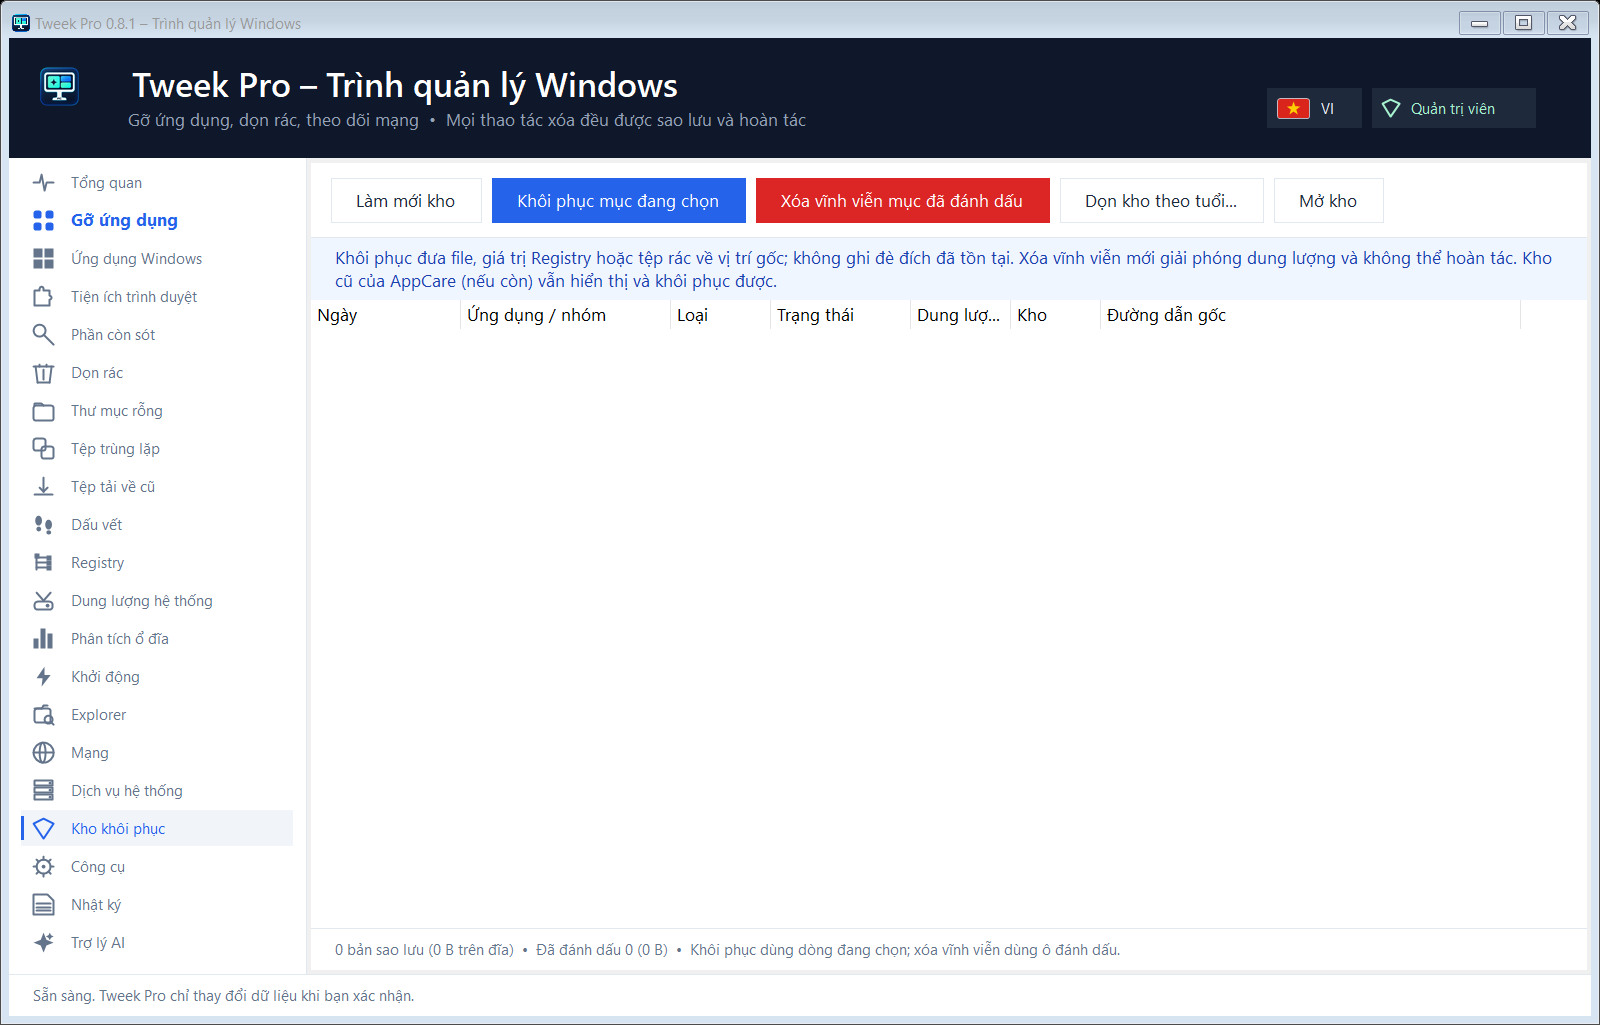
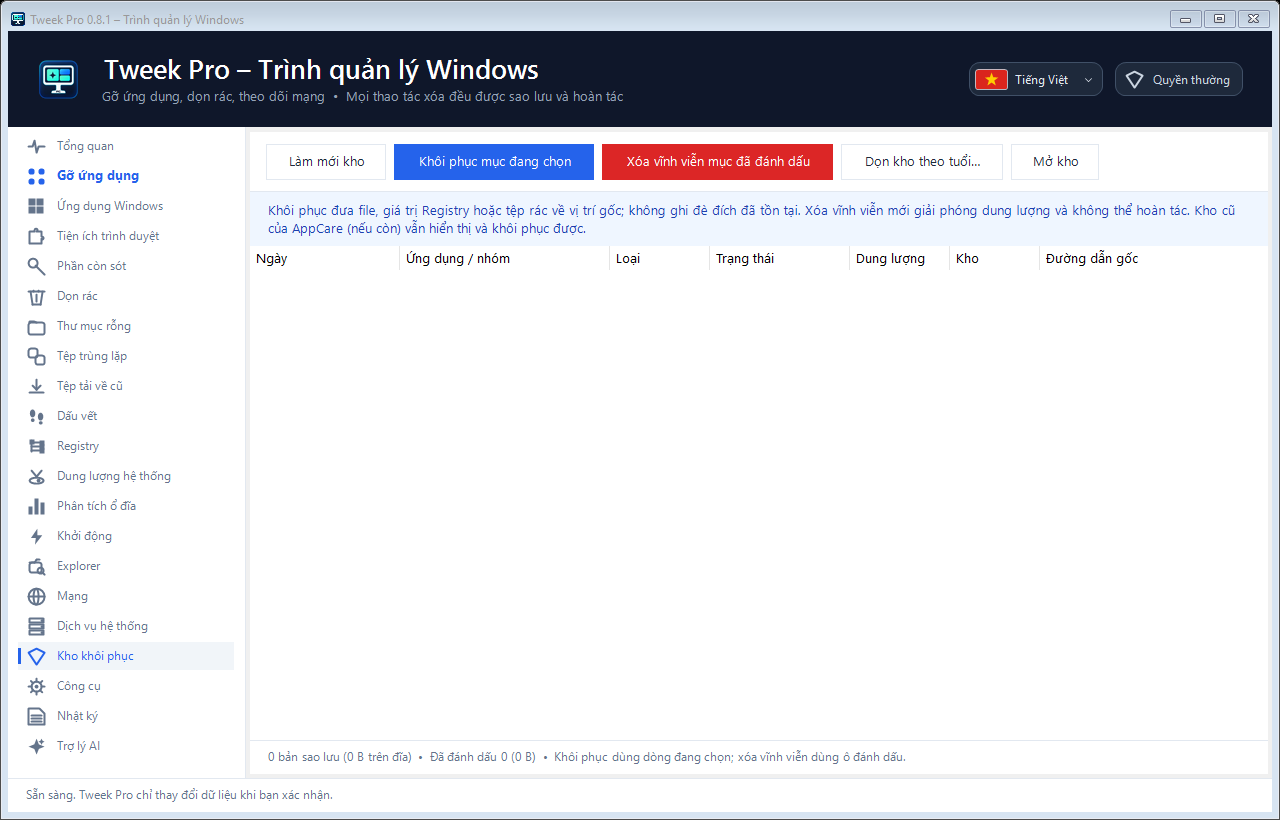
Refine language and privilege header controls and remove Hunter mode

diff --git a/App.cs b/App.cs
@@ -55,8 +55,6 @@ namespace TweekPro {
    Add(bar,"Gỡ cưỡng bức…",async()=>await ForceUninstall());
    Add(bar,"Xuất CSV",()=>{ExportApps();return Task.FromResult(0);});
    Add(bar,"Theo dõi cài đặt",async()=>await ToggleInstallWatch());watchInstallButton=actions[actions.Count-1];
-   Add(bar,"Hunter…",()=>{ShowHunter();return Task.FromResult(0);});
-   tips.SetToolTip(actions[actions.Count-1],Core.L.T("Thu cửa sổ và hiện kính ngắm đỏ.\r\nKéo kính lên icon hoặc cửa sổ để xem ứng dụng, rồi gỡ hoặc mở thư mục.\r\nChuột phải trên kính để thoát."));
    deepMode.Text=Core.L.T("Quét sâu sau khi gỡ");deepMode.Checked=settings.DeepScanAfterUninstall;deepMode.CheckedChanged+=(s,e)=>settings.DeepScanAfterUninstall=deepMode.Checked;deepMode.AutoSize=true;deepMode.Margin=new Padding(12,8,16,0);deepMode.ForeColor=Theme.Text;bar.Controls.Add(deepMode);
    pupOnly.Text=Core.L.T("Chỉ hiện mục cảnh báo");pupOnly.AutoSize=true;pupOnly.Margin=new Padding(0,8,16,0);pupOnly.ForeColor=Theme.Text;pupOnly.CheckedChanged+=(s,e)=>Filter();bar.Controls.Add(pupOnly);
    var searchHost=Theme.SearchField(search);search.TextChanged+=(s,e)=>Filter();
@@ -173,17 +171,20 @@ namespace TweekPro {
   void Log(string value){log.AppendText(DateTime.Now.ToString("HH:mm:ss")+"  "+value+"\r\n");status.Text=value;if(value.StartsWith("LỖI",StringComparison.OrdinalIgnoreCase)||value.StartsWith("ERROR",StringComparison.OrdinalIgnoreCase))Core.Log.Error(value);else Core.Log.Info(value);}
   /// <summary>Persists settings.json; failures are logged, never shown as blocking errors.</summary>
   void SaveSettings(){try{settings.Save(Core.Paths.SettingsFile);}catch(Exception e){Core.Log.Warn("Không lưu được settings.json: "+e.Message);}}
-  /// <summary>Adds the privilege badge and the compact language toggle to the right side of the header band.</summary>
+  /// <summary>Adds a language menu and a distinct privilege status to the header.</summary>
   void BuildHeaderActions(Panel header){
-   var right=new FlowLayoutPanel{Dock=DockStyle.Right,FlowDirection=FlowDirection.RightToLeft,WrapContents=false,Padding=new Padding(16,22,0,0),BackColor=Theme.Header};
-   bool elevated=Core.Elevation.IsElevated;
-   string privilege=Core.L.T(elevated?"Quản trị viên":"Quyền thường");
-   var badge=new Label{Text=privilege,AutoSize=false,Height=32,Width=TextRenderer.MeasureText(privilege,Theme.Small).Width+38,TextAlign=ContentAlignment.MiddleLeft,Padding=new Padding(28,0,8,0),Margin=new Padding(8,0,0,0),Font=Theme.Small,ForeColor=elevated?Color.FromArgb(167,243,208):Color.FromArgb(203,213,225),BackColor=Color.FromArgb(30,41,59),AccessibleName=Core.Elevation.BadgeText};
-   badge.Paint+=(s,e)=>{float scale=badge.DeviceDpi/96f;Branding.DrawTabGlyph(e.Graphics,"Kho khôi phục",new Rectangle((int)(8*scale),(badge.Height-(int)(14*scale))/2,(int)(14*scale),(int)(14*scale)),badge.ForeColor);};
-   right.Controls.Add(badge);
-   var language=Branding.LanguageButton(Core.L.English?"EN":"VI",Core.L.T(Core.L.English?"Chuyển sang tiếng Việt":"Switch to English"));language.Margin=new Padding(0);
-   language.Click+=async(s,e)=>await Guard(()=>{SwitchLanguage();return Task.FromResult(0);});
+   var right=new FlowLayoutPanel{Dock=DockStyle.Right,FlowDirection=FlowDirection.LeftToRight,WrapContents=false,Padding=new Padding(16,12,0,0),BackColor=Theme.Header};
+   var language=Branding.LanguageButton(Core.L.English?"EN":"VI",Core.L.T("Ngôn ngữ"));language.Margin=new Padding(0,0,10,0);
+   var menu=new ContextMenuStrip{Font=Theme.Body};
+   foreach(string code in new[]{Core.L.Vietnamese,Core.L.EnglishCode}){
+    string target=code;var item=new ToolStripMenuItem(Core.L.T(code==Core.L.Vietnamese?"Tiếng Việt":"English")){Checked=String.Equals(Core.L.Lang,code,StringComparison.OrdinalIgnoreCase)};
+    item.Click+=async(s,e)=>{if(!String.Equals(Core.L.Lang,target,StringComparison.OrdinalIgnoreCase))await Guard(()=>{SwitchLanguage();return Task.FromResult(0);});};menu.Items.Add(item);
+   }
+   language.ContextMenuStrip=menu;tips.SetToolTip(language,Core.L.T("Ngôn ngữ"));
+   language.Click+=(s,e)=>menu.Show(language,new Point(0,language.Height));
+   FormClosed+=(s,e)=>menu.Dispose();
    right.Controls.Add(language);
+   var badge=Branding.PrivilegeBadge(Core.Elevation.IsElevated);badge.Margin=new Padding(0);tips.SetToolTip(badge,Core.Elevation.BadgeText);right.Controls.Add(badge);
    header.Controls.Add(right);right.Width=right.PreferredSize.Width;
   }
   /// <summary>Toggles between Vietnamese and English, saves the preference and relaunches so every tab is rebuilt in the new language.</summary>
@@ -458,24 +459,7 @@ namespace TweekPro {
    try{Process.Start(Application.ExecutablePath);}catch(Exception ex){Log(ex.Message);return;}
    BeginInvoke((Action)Close);
   }
-  void ShowHunter(){
-   if(Environment.OSVersion.Platform!=PlatformID.Win32NT)throw new IOException(Core.L.T("Hunter chỉ chạy trên Windows."));
-   Hide();
-   bool back=false;
-   Action show=()=>{
-    if(back)return;back=true;
-    var area=Screen.FromPoint(Cursor.Position).WorkingArea;
-    if(Width>area.Width)Width=area.Width;if(Height>area.Height)Height=area.Height;
-    if(Left<area.Left||Top<area.Top||Right>area.Right||Bottom>area.Bottom)
-     Location=new Point(area.Left+Math.Max(0,(area.Width-Width)/2),area.Top+Math.Max(0,(area.Height-Height)/2));
-    Show();WindowState=FormWindowState.Normal;Activate();
-   };
-   HunterSession.Start(this,inventory,app=>{
-    show();
-    foreach(ListViewItem i in apps.Items){bool mine=i.Tag==app;i.Selected=mine;i.Checked=mine;if(mine)i.EnsureVisible();}
-    BeginInvoke((Action)(async()=>{await Guard(()=>Uninstall());}));
-   },show);
-  }
+
  }
  public static class Program {
   /// <summary>Migrates the AppCare data folder once, then points the rotating log at the Tweek Pro data directory.</summary>

diff --git a/Branding.cs b/Branding.cs
@@ -23,14 +23,33 @@ namespace TweekPro {
   static readonly Color LogoTop=Color.FromArgb(56,132,255);
   static readonly Color LogoBottom=Color.FromArgb(29,78,216);
 
-  /// <summary>Compact header button showing the current language as its flag; clicking it switches the UI language.</summary>
+  /// <summary>Rounded language selector with the current flag, language name and menu chevron.</summary>
   public static Button LanguageButton(string code,string tooltip){
-   var b=new Button{Size=new Size(76,32),FlatStyle=FlatStyle.Flat,Cursor=Cursors.Hand,BackColor=Color.FromArgb(30,41,59),ForeColor=Color.FromArgb(226,232,240),Text="",TabStop=true,UseVisualStyleBackColor=false};
-   b.FlatAppearance.BorderSize=0;b.FlatAppearance.MouseOverBackColor=Color.FromArgb(30,41,59);b.FlatAppearance.MouseDownBackColor=Color.FromArgb(51,65,85);
-   b.Paint+=(s,e)=>{float scale=b.DeviceDpi/96f;DrawLanguageGlyph(e.Graphics,new Rectangle(0,0,(int)(42*scale),b.Height),code,b.ForeColor);TextRenderer.DrawText(e.Graphics,code,Theme.Small,new Rectangle((int)(40*scale),0,b.Width-(int)(42*scale),b.Height),b.ForeColor,TextFormatFlags.Left|TextFormatFlags.VerticalCenter);};
-   new ToolTip().SetToolTip(b,tooltip);
-   b.AccessibleName=tooltip;
+   string name=Core.L.T(code=="EN"?"English":"Tiếng Việt");
+   var b=new Button{Size=new Size(TextRenderer.MeasureText(name,Theme.Small).Width+76,36),Font=Theme.Small,FlatStyle=FlatStyle.Flat,Cursor=Cursors.Hand,BackColor=Theme.Header,ForeColor=Color.FromArgb(226,232,240),Text="",TabStop=true,UseVisualStyleBackColor=false,AccessibleName=tooltip+": "+name};
+   b.FlatAppearance.BorderSize=0;b.FlatAppearance.MouseOverBackColor=Theme.Header;b.FlatAppearance.MouseDownBackColor=Theme.Header;
+   bool hover=false,pressed=false;
+   b.MouseEnter+=(s,e)=>{hover=true;b.Invalidate();};b.MouseLeave+=(s,e)=>{hover=false;pressed=false;b.Invalidate();};b.MouseDown+=(s,e)=>{pressed=true;b.Invalidate();};b.MouseUp+=(s,e)=>{pressed=false;b.Invalidate();};b.GotFocus+=(s,e)=>b.Invalidate();b.LostFocus+=(s,e)=>b.Invalidate();
+   b.Paint+=(s,e)=>{
+    float scale=b.DeviceDpi/96f;var g=e.Graphics;g.SmoothingMode=SmoothingMode.AntiAlias;
+    using(var shape=Rounded(new Rectangle(1,1,b.Width-3,b.Height-3),(int)(10*scale)))using(var fill=new SolidBrush(pressed?Color.FromArgb(51,65,85):hover?Color.FromArgb(40,55,76):Color.FromArgb(30,41,59)))using(var edge=new Pen(b.Focused?Color.FromArgb(96,165,250):Color.FromArgb(64,80,103))){g.FillPath(fill,shape);g.DrawPath(edge,shape);}
+    DrawLanguageGlyph(g,new Rectangle((int)(10*scale),0,(int)(26*scale),b.Height),code,b.ForeColor);
+    TextRenderer.DrawText(g,name,b.Font,new Rectangle((int)(44*scale),0,b.Width-(int)(66*scale),b.Height),b.ForeColor,TextFormatFlags.Left|TextFormatFlags.VerticalCenter|TextFormatFlags.NoPrefix);
+    int x=b.Width-(int)(16*scale),y=b.Height/2;using(var pen=new Pen(b.ForeColor,1.5f*scale)){g.DrawLines(pen,new[]{new PointF(x-3*scale,y-1*scale),new PointF(x,y+2*scale),new PointF(x+3*scale,y-1*scale)});}
+   };
    return b;
+  }
+  /// <summary>Rounded read-only privilege status, with a green shield when elevated.</summary>
+  public static Label PrivilegeBadge(bool elevated){
+   string text=Core.L.T(elevated?"Quản trị viên":"Quyền thường");
+   var badge=new Label{Text="",Height=36,Width=TextRenderer.MeasureText(text,Theme.Small).Width+46,Font=Theme.Small,BackColor=Theme.Header,ForeColor=elevated?Color.FromArgb(167,243,208):Color.FromArgb(203,213,225),AccessibleName=Core.Elevation.BadgeText};
+   badge.Paint+=(s,e)=>{
+    float scale=badge.DeviceDpi/96f;var g=e.Graphics;g.SmoothingMode=SmoothingMode.AntiAlias;
+    using(var shape=Rounded(new Rectangle(1,1,badge.Width-3,badge.Height-3),(int)(10*scale)))using(var fill=new SolidBrush(elevated?Color.FromArgb(20,49,48):Color.FromArgb(30,41,59)))using(var edge=new Pen(elevated?Color.FromArgb(38,83,73):Color.FromArgb(64,80,103))){g.FillPath(fill,shape);g.DrawPath(edge,shape);}
+    DrawTabGlyph(g,"Kho khôi phục",new Rectangle((int)(12*scale),(badge.Height-(int)(16*scale))/2,(int)(16*scale),(int)(16*scale)),badge.ForeColor);
+    TextRenderer.DrawText(g,text,badge.Font,new Rectangle((int)(36*scale),0,badge.Width-(int)(42*scale),badge.Height),badge.ForeColor,TextFormatFlags.Left|TextFormatFlags.VerticalCenter|TextFormatFlags.NoPrefix);
+   };
+   return badge;
   }
 
   /// <summary>Draws the flag of the active language, centered in r: Vietnam (red, gold star) for VI and the Union Jack for EN.</summary>

diff --git a/Extras/ParityTests.cs b/Extras/ParityTests.cs
@@ -29,17 +29,6 @@ namespace TweekPro {
     if(others.Count!=1||!others[0].EndsWith("Other",StringComparison.OrdinalIgnoreCase))throw new Exception("other profiles skip Public, Default and the current user");
     if(ProfileScope.DataFolders(others[0]).Length!=2)throw new Exception("data folders");
 
-    var apps=new[]{
-     new AppEntry{Name="Editor",Location=@"C:\Apps\Editor",Command=@"C:\Apps\Editor\uninstall.exe"},
-     new AppEntry{Name="Other",Location=@"C:\Apps\Other",Command="msiexec /x {x}"}
-    };
-    var hit=HunterMatch.Find(@"C:\Apps\Editor\bin\editor.exe",apps);
-    if(hit==null||hit.Name!="Editor")throw new Exception("hunter matches install folder");
-    var byCmd=HunterMatch.Find(@"D:\tools\uninstall.exe",new[]{apps[0]});
-    if(byCmd==null||byCmd.Name!="Editor")throw new Exception("hunter matches uninstall command file name");
-    if(HunterMatch.Find(@"C:\Windows\notepad.exe",apps)!=null)throw new Exception("hunter must not guess");
-    if(HunterMatch.Find("not-a-path",apps)!=null)throw new Exception("hunter rejects a bad path");
-
     if(UserTools.Refuse(@"C:\Windows\System32\cmd.exe")!="blocked")throw new Exception("cmd refused");
     if(UserTools.Refuse(@"C:\Windows\System32\WindowsPowerShell\v1.0\powershell.exe")!="blocked")throw new Exception("powershell refused");
     if(UserTools.Refuse("notepad.exe")!="not-rooted")throw new Exception("relative path refused");

diff --git a/Extras/Parity.cs b/Extras/Parity.cs
@@ -74,24 +74,6 @@ namespace TweekPro {
   }
  }
 
- /// <summary>Matches a window's executable to an installed application by install folder, then by the uninstall command.</summary>
- public static class HunterMatch {
-  public static AppEntry Find(string exePath,IEnumerable<AppEntry> apps){
-   if(String.IsNullOrWhiteSpace(exePath)||apps==null)return null;
-   string full;try{full=Path.GetFullPath(exePath);}catch(Exception){return null;}
-   string file=Path.GetFileName(full);
-   if(file.Length<5||!file.EndsWith(".exe",StringComparison.OrdinalIgnoreCase))return null;
-   AppEntry byCommand=null;
-   foreach(var a in apps){
-    if(a==null)continue;
-    string loc=(a.Location??"").Trim().TrimEnd('\\');
-    if(loc.Length>2&&full.StartsWith(loc+"\\",StringComparison.OrdinalIgnoreCase))return a;
-    if(byCommand==null&&(a.Command??"").IndexOf(file,StringComparison.OrdinalIgnoreCase)>=0)byCommand=a;
-   }
-   return byCommand;
-  }
- }
-
  /// <summary>User-added tools. Only a local .exe, .msc or .cpl is accepted; shells and script hosts are refused.</summary>
  public static class UserTools {
   static readonly string[] Blocked={"cmd.exe","powershell.exe","pwsh.exe","wscript.exe","cscript.exe","mshta.exe","reg.exe","regedit.exe","bash.exe","wt.exe"};

diff --git a/Core/LangEn.cs b/Core/LangEn.cs
@@ -17,7 +17,7 @@ namespace TweekPro.Core {
    {"Đã xử lý","Processed"},{"Đang dùng / không truy cập được","In use / inaccessible"},
    {"Đã thay đổi — giữ lại","Changed — kept"},{"Không còn tồn tại","No longer exists"},{"Lỗi xử lý","Processing error"},
    {"Không có tệp trong nhóm này.","No files in this category."},
-   {"Quản trị viên","Administrator"},{"Quyền thường","Standard user"},
+   {"Ngôn ngữ","Language"},{"Quản trị viên","Administrator"},{"Quyền thường","Standard user"},
    {"Gỡ ứng dụng","Uninstall apps"},
    {"ĐIỀU HƯỚNG","NAVIGATION"},
    {"Dọn dẹp","Cleanup"},

diff --git a/WORKSTATE.md b/WORKSTATE.md
@@ -1,13 +1,11 @@
 # Tweek Pro - current work checkpoint
 
-Updated: 2026-09-27 (Asia/Bangkok).
-Objective: simplify sidebar for nontechnical users, keep Applications/Cleanup fully expanded and make uninstall easy to find.
-Status: owner approved the flat sidebar (2026-09-27 16:48). Installed exe overwritten with the Release build (hash ED6B264E…, shortcut points at TweekPro-0.8.0.exe). Pushing the four sidebar commits plus this checkpoint; screenshots in docs/screenshots are from this UI.
+Updated: 2026-10-01 (Asia/Bangkok).
+Objective: redesign language/admin header controls and remove Hunter mode.
+Status: implementation and verification complete on main; committing and pushing this checkpoint.
 
-- One flat vertical list of 21 feature links with no group headings or nested panels. Uninstall apps remains bold blue directly below Overview; same order as previous review.
-- VI/EN translations and README pending 0.8.1 notes updated. All 22 tab screenshots regenerated locally in both languages; Vietnamese docs/screenshots; English in %TEMP%/TweekProUIReview-c31ab63717ac4c8ba8853d5aed663cbd/en.
-- Build: 0 warnings/errors. Elevated `--self-test` PASS 2026-09-27T16:46:08. VI/EN UI smoke PASS: 21 clickable/keyboard-focusable links, flat list contains exactly 21 buttons with no captions; no scrollbar or clipped links at 1120x700 and 1280x820 in VI/EN, six cleanup filters correct. git diff --check passed.
-- Review app launched from workspace bin/FitReview/TweekPro-0.8.0.exe, PID 46648. Existing installed 0.8.0 remains unchanged. User should review the workspace window.
-- Next: nothing pending for this iteration. No new tag; v0.8.0 release assets stay as published. README gallery updates from the pushed screenshots.
-- Previous v0.8.0 Release and installed build verified in prior checkpoint; installation backup remains %LOCALAPPDATA%/TweekPro-install-backup-20260927-161501.
-- Preserve untracked .bridge/ and .cursor/. No verification commands still running; review app intentionally remains open. Older review PIDs 49596, 46340 and 51232 were not closed. This local checkpoint is not a GitHub backup.
+- Rounded language selector (flag, full name, chevron), checked VI/EN menu, hover/focus states; green rounded elevated status with shield. Removed Hunter button, floating UI, matching helper and obsolete helper tests; Remnants.TraceHunter remains.
+- README pending 0.8.2 notes and language instructions updated; all 22 Vietnamese screenshots regenerated; English and elevated-badge previews in %TEMP%/TweekProHeader-8bbd8af91fe5453990567d9884d57a62.
+- Release build: 0 warnings/errors. Final elevated full self-test exit 0, PASS 2026-10-01T23:40:17. VI/EN isolated UI checks PASS at 1120x700 and 1280x820: bounds, menu open/checked selection, current-language no-op, keyboard focus, Hunter absent. Initial harness SendKeys failed due to desktop access; replaced with direct menu checks, rerun passed. git diff --check passed.
+- No verification commands remain running. No release or installed executable overwrite requested.
+- Preserve pre-existing untracked .bridge/ and .cursor/. Next: verify remote identity after push; owner can review bin/Release/net48/TweekPro-0.8.1.exe.
